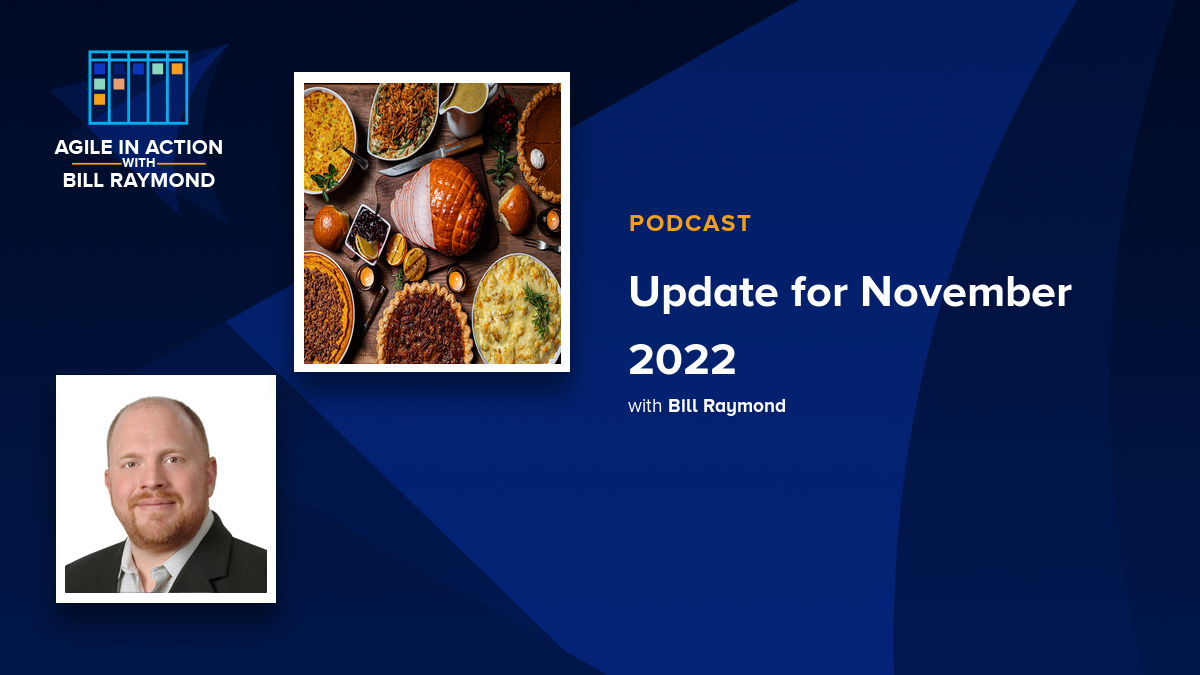
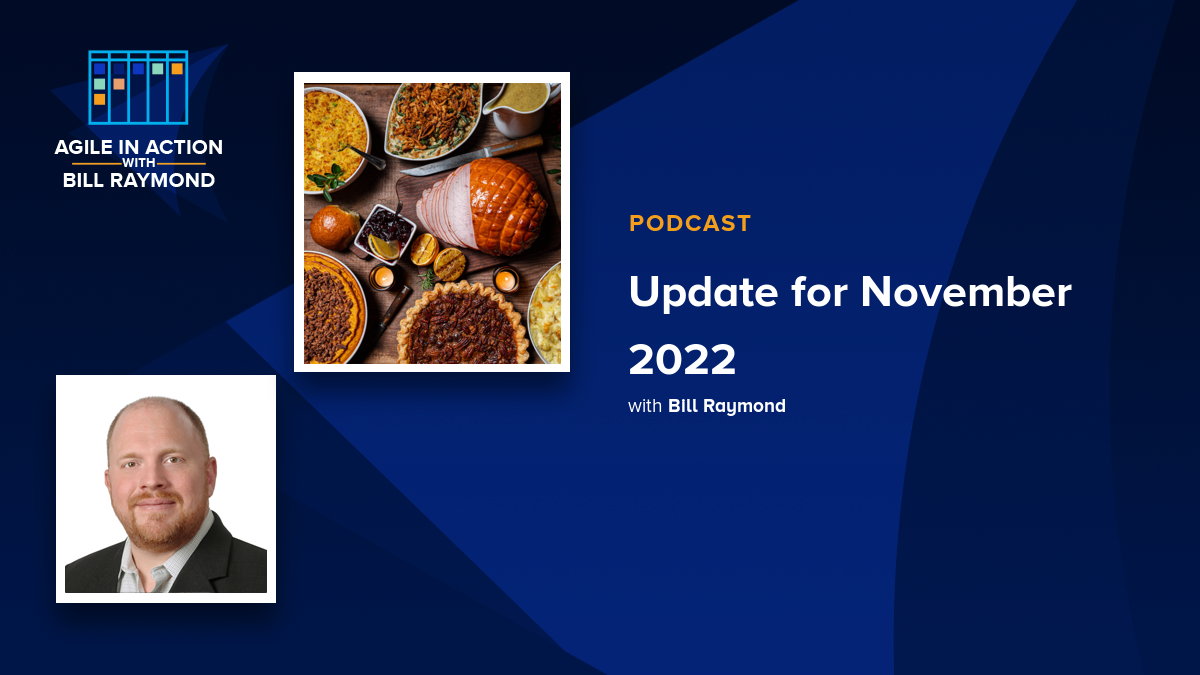
Jekyll build from Action

Changed region(s): [[0.2467, 0.1244, 0.4933, 0.56]]

diff --git a/admin.html b/admin.html
@@ -52,7 +52,7 @@
         
         <div class="gcp-cards-1">
             
-            <img src="/uploads/holiday-dinner.png" alt="" class="gcp-card"></div>
+            <img src="/uploads/holiday-dinner-v2.png" alt="" class="gcp-card"></div>
         <div class="gcp-play"><img src="/assets/guests-card/play-circle.png" alt="" class="gcp-play-image">
         </div>
     </div><div class="guests-card-title-container"><p class="gct-title"><span><a class="gct-title-href" href="/agile-in-action-podcast/2022/11/22/update-for-november-2002.html">Update for November 2022</a></span></p>

diff --git a/guestphotos.html b/guestphotos.html
@@ -24,7 +24,7 @@
       
       <h2>Title:Update for November 2022</h2># Guests:1<p>Guest:Bill Raymond</p>
         <p>Photo:</p>
-        <p><img src="/uploads/holiday-dinner.png" alt=""> </p><h2>Title:Starting in a new company as a Scrum Master</h2># Guests:3<p>Guest:Aysegul Onal</p>
+        <p><img src="/uploads/holiday-dinner-v2.png" alt=""> </p><h2>Title:Starting in a new company as a Scrum Master</h2># Guests:3<p>Guest:Aysegul Onal</p>
         <p>Photo:</p>
         <p><img src="/uploads/aysegul-onal.jpeg" alt=""> </p><p>Guest:Sponsor</p>
         <p>Photo:</p>
